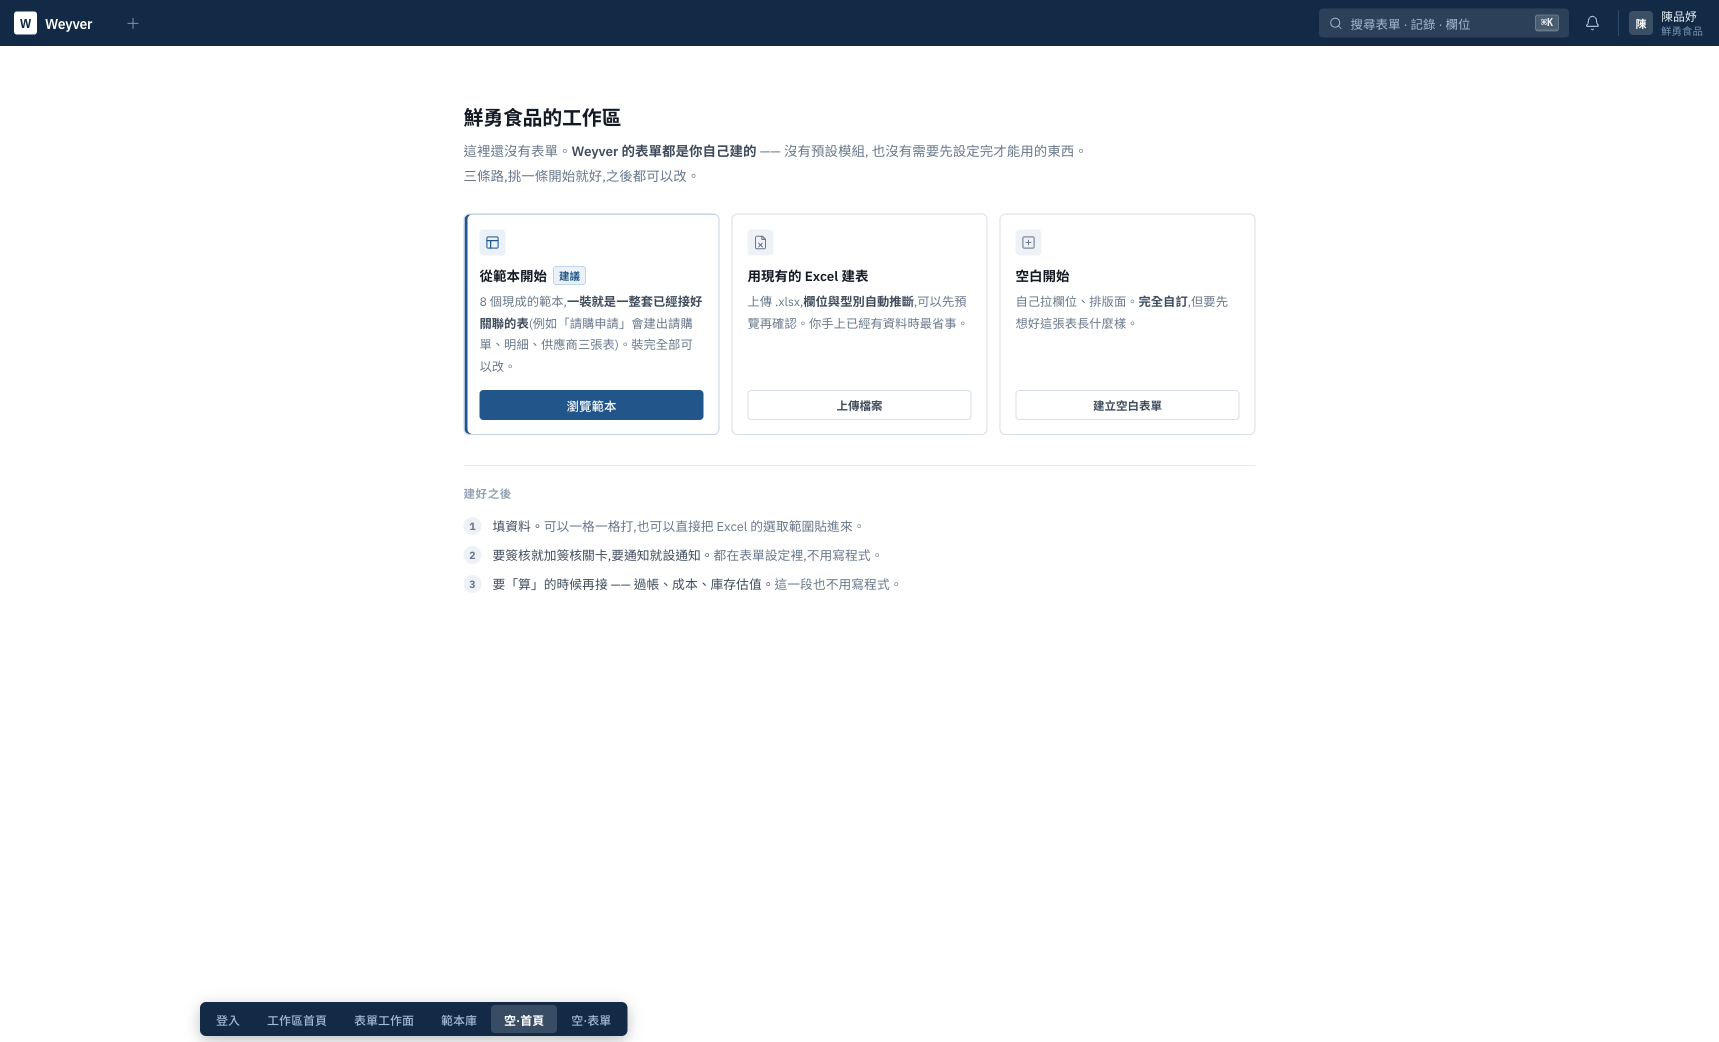
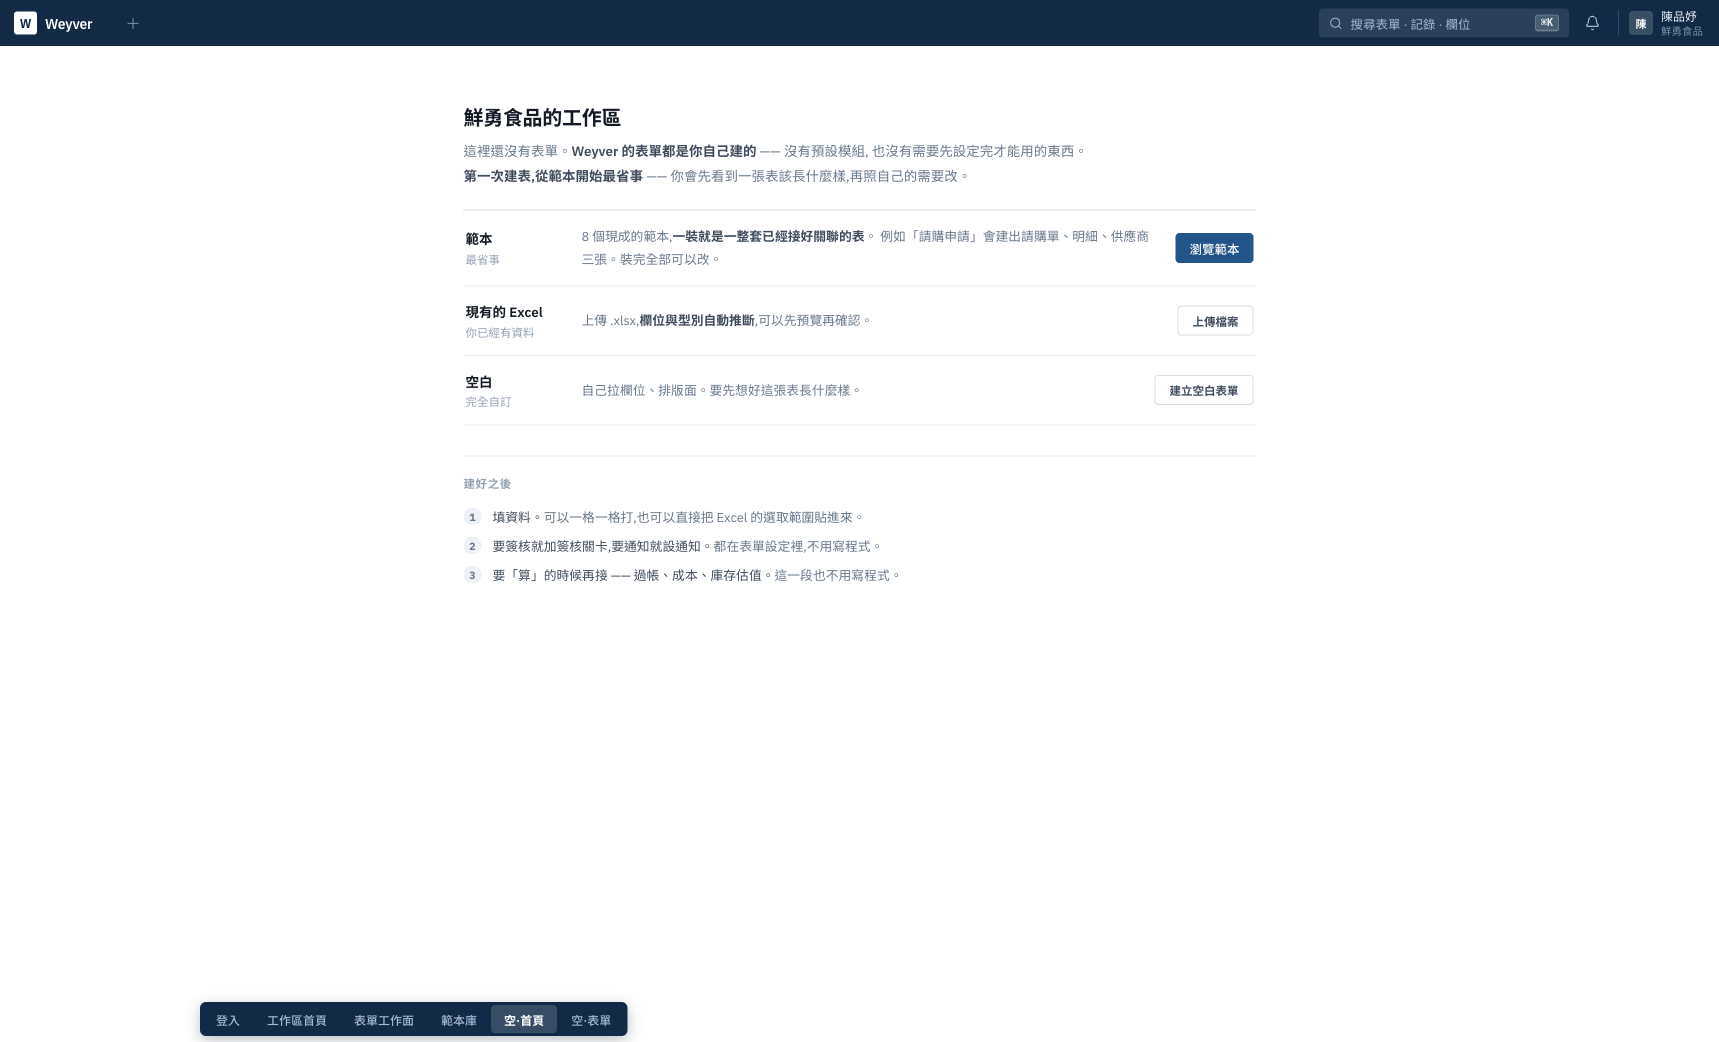
docs(design): 三條路從並排卡片改清單 —— 每個元素都指不出出處
決策方放大卡片後指出 vibe / AI 感。逐元素過 D5 構造規則(指不出出處=刪),
結果是**整張卡沒有一個元素過關**:

· 圖示放在淡色圓角方塊裡 —— 225 張參考圖沒有一家這樣做
· 「建議」章 —— Ragic 的「精選應用」是分類名不是章,建議該用順序表達
· 3px 主色左框線 —— 指不出出處
· 整寬實心按鈕 —— Ragic 應用商店是右側一顆小的「取得」(ragic-03)
· 三張並排卡片 —— 這是 AI-SaaS 的預設版式,不是這個任務的形狀

改用清單,三條依據都是既有的、不是新發明的:
① 站①:我們自己出貨的 builder 側欄(form-list.tsx:66)就是三個並排的
   **純文字按鈕**。空狀態是同樣三個動作,該用同一套語彙
② 共識 R2:瀏覽用清單只畫水平線(6/6)—— 而這就是一個瀏覽清單
③ 共識 R7:按鈕三階、實心每頁只給一顆 → 範本實心,另兩個外框

「建議」改由**順序 + 一句話**承載("第一次建表,從範本開始最省事"),
不用章 —— Ragic 也是靠「精選應用」這個分類位置在表達,不是在每列貼標籤。

🔴 一般化的教訓寫進 docs/38 §5.6.1:
**「三張並排卡片」本身就是一個 AI 味 tell** ——
它是「有三個選項」時最不用動腦的版式,而正因為不用動腦,它幾乎不會是對的形狀。

diff --git a/docs/mockups/weyver-v2.html b/docs/mockups/weyver-v2.html
@@ -726,32 +726,36 @@ a:hover{text-decoration:underline;}
 .blank .lead{margin-top:8px;font-size:13.5px;line-height:1.8;color:var(--ink-3);}
 .blank .lead b{color:var(--ink-2);font-weight:600;}
 
-/* 三條路。🚫 不畫插畫、不做 hero —— AI 味清單第一條就是裝飾性視覺。
-   卡片之間**刻意不等權**:範本卡帶主色左框線,另外兩張純線框。 */
-/* ⚠ **這個檔第二次踩類別撞名**:先是 `.mid`(登入左屏 vs 工作面中欄),
-   再是 `.rec`(這裡的「建議」章 vs 記錄面板 `width:430px;display:flex`)——
-   章被撐成 430px 寬。單檔多畫面共用一個 CSS 命名空間就會這樣,
-   短又通用的類名(rec / mid / card / tip)要加前綴。
+/* ══ 三條路 ══════════════════════════════════════════════════════
+   🔴 **v2 初稿是三張並排卡片,已作廢。** 放大看之後,每個元素都指不出出處 ——
+   而那正是 [[feedback-ai-vibe-tells]] 的 D5 構造規則要擋的:
+   **每個元素指得出出處,指不出=刪。**
 
-   🔴 minmax(0,1fr) 不是 1fr —— `1fr` 等於 `minmax(auto,1fr)`,而 auto 會被
-   內容的 min-content 撐開。這裡踩到的是 **CJK 之間的 `=` 和 `+` 不斷行**:
-   「請購申請=請購單+明細+供應商」變成一個 13 字的不可斷 token,
-   把第一欄撐到 468px 而另外兩欄剩 150px。量出來才發現,眼睛只看得到「怪」。 */
-.paths{display:grid;grid-template-columns:repeat(3,minmax(0,1fr));gap:12px;margin-top:26px;}
-.path{border:1px solid var(--line);border-radius:var(--r-box);padding:15px 15px 14px;
-  display:flex;flex-direction:column;background:var(--paper);}
-.path.first{border-color:var(--brand-l);box-shadow:inset 3px 0 0 var(--brand);}
-.path .ic{width:26px;height:26px;border-radius:var(--r-ctl);display:flex;align-items:center;
-  justify-content:center;background:var(--paper-3);color:var(--ink-3);margin-bottom:10px;}
-.path.first .ic{background:var(--brand-t);color:var(--brand);}
-.path .ic svg{width:15px;height:15px;}
-.path h3{font-size:13.5px;font-weight:600;display:flex;align-items:center;flex-wrap:wrap;gap:2px;}
-.path .sug{flex-shrink:0;margin-left:4px;font-size:10.5px;font-weight:600;color:var(--brand);
-  background:var(--brand-t);border:1px solid var(--brand-l);border-radius:var(--r-chip);padding:1px 5px;}
-.path p{margin-top:6px;font-size:12.3px;line-height:1.75;color:var(--ink-3);flex:1;}
-.path p b{color:var(--ink-2);font-weight:600;}
-.path .go{margin-top:13px;}
-.path .go .btn{width:100%;}
+   | 被刪的 | 為什麼 |
+   |---|---|
+   | 圖示放在淡色圓角方塊裡 | 225 張參考圖**沒有一家**這樣做 |
+   | 「建議」章 | Ragic 的「精選應用」是**分類名**不是章;建議該用順序表達 |
+   | 3px 主色左框線 | 指不出出處 |
+   | 整寬實心按鈕 | Ragic 應用商店是**右側一顆小的「取得」**(ragic-03) |
+   | 三張並排卡片 | 這是 AI-SaaS 的預設版式,不是這個任務的形狀 |
+
+   ── 改用清單,依據有三 ────────────────────────────────
+   ① **站①:我們自己出貨的 builder 側欄**(`form-list.tsx:66`)就是
+      三個並排的**純文字按鈕**。空狀態是同樣三個動作,該用同一套語彙。
+   ② **共識 R2**:瀏覽用清單**只畫水平線**(6/6)。這就是一個瀏覽清單。
+   ③ **共識 R7**:按鈕三階,實心每頁只給一顆 → 範本實心,另兩個外框。
+
+   「建議」改由**順序 + 一句話**承載,不用章 —— Ragic 也是靠「精選應用」
+   這個分類位置在表達,不是在每一列貼標籤。 */
+.paths{margin-top:22px;border-top:1px solid var(--line);}
+.pathrow{display:grid;grid-template-columns:96px minmax(0,1fr) auto;gap:20px;align-items:center;
+  padding:15px 2px;border-bottom:1px solid var(--line-2);}
+.pathrow .nm{font-size:13.5px;font-weight:600;color:var(--ink);}
+.pathrow .nm em{display:block;font-style:normal;font-size:11.5px;font-weight:400;color:var(--ink-4);
+  margin-top:2px;}
+.pathrow .ds{font-size:12.8px;line-height:1.75;color:var(--ink-3);}
+.pathrow .ds b{color:var(--ink-2);font-weight:600;}
+.pathrow .ac{justify-self:end;}
 
 /* 底下一段「接下來會怎樣」—— 空狀態最常見的失敗是只講「怎麼開始」,
    不講「開始之後呢」。使用者猶豫的其實是後者。 */
@@ -1555,7 +1559,7 @@ a:hover{text-decoration:underline;}
         <div class="lead">
           這裡還沒有表單。<b>Weyver 的表單都是你自己建的</b> —— 沒有預設模組,
           也沒有需要先設定完才能用的東西。<br>
-          三條路,挑一條開始就好,之後都可以改。
+          <b>第一次建表,從範本開始最省事</b> —— 你會先看到一張表該長什麼樣,再照自己的需要改。
         </div>
 
         <!-- 排序不是「由簡到繁」,是**由「別人已經想過」到「你自己想」**。
@@ -1563,23 +1567,30 @@ a:hover{text-decoration:underline;}
              依據:form-list.tsx:66 逐字「範本放最前面 —— 對第一次建表的人,
              『從範本開始』比空白畫布好下手」。 -->
         <div class="paths">
-          <div class="path first">
-            <div class="ic"><svg viewBox="0 0 24 24"><rect width="18" height="18" x="3" y="3" rx="2"/><path d="M3 9h18M9 21V9"/></svg></div>
-            <h3>從範本開始<span class="sug">建議</span></h3>
-            <p>8 個現成的範本,<b>一裝就是一整套已經接好關聯的表</b>(例如「請購申請」會建出請購單、明細、供應商三張表)。裝完全部可以改。</p>
-            <div class="go"><button class="btn pri">瀏覽範本</button></div>
+          <!-- 順序即建議:範本在最前,而理由寫成一句話而不是一枚章。
+               依據 form-list.tsx:66「範本放最前面 —— 對第一次建表的人,
+               『從範本開始』比空白畫布好下手」。 -->
+          <div class="pathrow">
+            <div class="nm">範本<em>最省事</em></div>
+            <div class="ds">
+              8 個現成的範本,<b>一裝就是一整套已經接好關聯的表</b>。
+              例如「請購申請」會建出請購單、明細、供應商三張。裝完全部可以改。
+            </div>
+            <div class="ac"><button class="btn pri">瀏覽範本</button></div>
           </div>
-          <div class="path">
-            <div class="ic"><svg viewBox="0 0 24 24"><path d="M15 2H6a2 2 0 0 0-2 2v16a2 2 0 0 0 2 2h12a2 2 0 0 0 2-2V7Z"/><path d="M14 2v5h5"/><path d="m9 13 6 6M15 13l-6 6"/></svg></div>
-            <h3>用現有的 Excel 建表</h3>
-            <p>上傳 .xlsx,<b>欄位與型別自動推斷</b>,可以先預覽再確認。你手上已經有資料時最省事。</p>
-            <div class="go"><button class="btn sec">上傳檔案</button></div>
+          <div class="pathrow">
+            <div class="nm">現有的 Excel<em>你已經有資料</em></div>
+            <div class="ds">
+              上傳 .xlsx,<b>欄位與型別自動推斷</b>,可以先預覽再確認。
+            </div>
+            <div class="ac"><button class="btn sec">上傳檔案</button></div>
           </div>
-          <div class="path">
-            <div class="ic"><svg viewBox="0 0 24 24"><rect width="18" height="18" x="3" y="3" rx="2"/><path d="M12 8v8M8 12h8"/></svg></div>
-            <h3>空白開始</h3>
-            <p>自己拉欄位、排版面。<b>完全自訂</b>,但要先想好這張表長什麼樣。</p>
-            <div class="go"><button class="btn sec">建立空白表單</button></div>
+          <div class="pathrow">
+            <div class="nm">空白<em>完全自訂</em></div>
+            <div class="ds">
+              自己拉欄位、排版面。要先想好這張表長什麼樣。
+            </div>
+            <div class="ac"><button class="btn sec">建立空白表單</button></div>
           </div>
         </div>
 

diff --git a/docs/38-前端設計規則.md b/docs/38-前端設計規則.md
@@ -269,6 +269,26 @@ pack 深度只用到 schema 上限 20 的 3。
 ② **不畫沒出貨的東西**(AI 建表是第四條路,但 `ai-assist` M3 未出貨 → 不畫,
 否則 mockup 會變成願望清單)。
 
+#### 5.6.1 🔴 三張並排卡片 → 清單(2026-08-08 重做)
+初稿把三條路畫成三張並排卡片。放大看之後,**每個元素都指不出出處** ——
+而那正是 [[feedback-ai-vibe-tells]] 的 **D5 構造規則**要擋的:**指不出=刪**。
+
+| 被刪的 | 為什麼 |
+|---|---|
+| 圖示放在淡色圓角方塊裡 | 225 張參考圖**沒有一家**這樣做 |
+| 「建議」章 | Ragic 的「精選應用」是**分類名**不是章 —— 建議該用**順序**表達 |
+| 3px 主色左框線 | 指不出出處 |
+| 整寬實心按鈕 | Ragic 應用商店是**右側一顆小的「取得」**(`ragic-03`) |
+| 三張並排卡片 | 這是 **AI-SaaS 的預設版式**,不是這個任務的形狀 |
+
+**改用清單,三條依據**|① 站①:我們自己出貨的 builder 側欄(`form-list.tsx:66`)
+就是三個並排的**純文字按鈕** —— 空狀態是同樣三個動作,該用同一套語彙
+② 共識 R2:瀏覽用清單**只畫水平線**(6/6),而這就是一個瀏覽清單
+③ 共識 R7:按鈕三階、實心每頁只給一顆 → 範本實心,另兩個外框。
+
+→ **一般化的教訓:「三張並排卡片」本身就是一個 AI 味 tell。**
+它是「有三個選項」時最不用動腦的版式,而正因為不用動腦,它幾乎不會是對的形狀。
+
 ⚠ 225 張參考圖裡**沒有空狀態畫面**,版面全部是 [判斷];唯一有依據的是三條路的排序。
 
 **未涵蓋**|設計器 `/app/builder` 與 11 個設定頁尚未重新設計。
